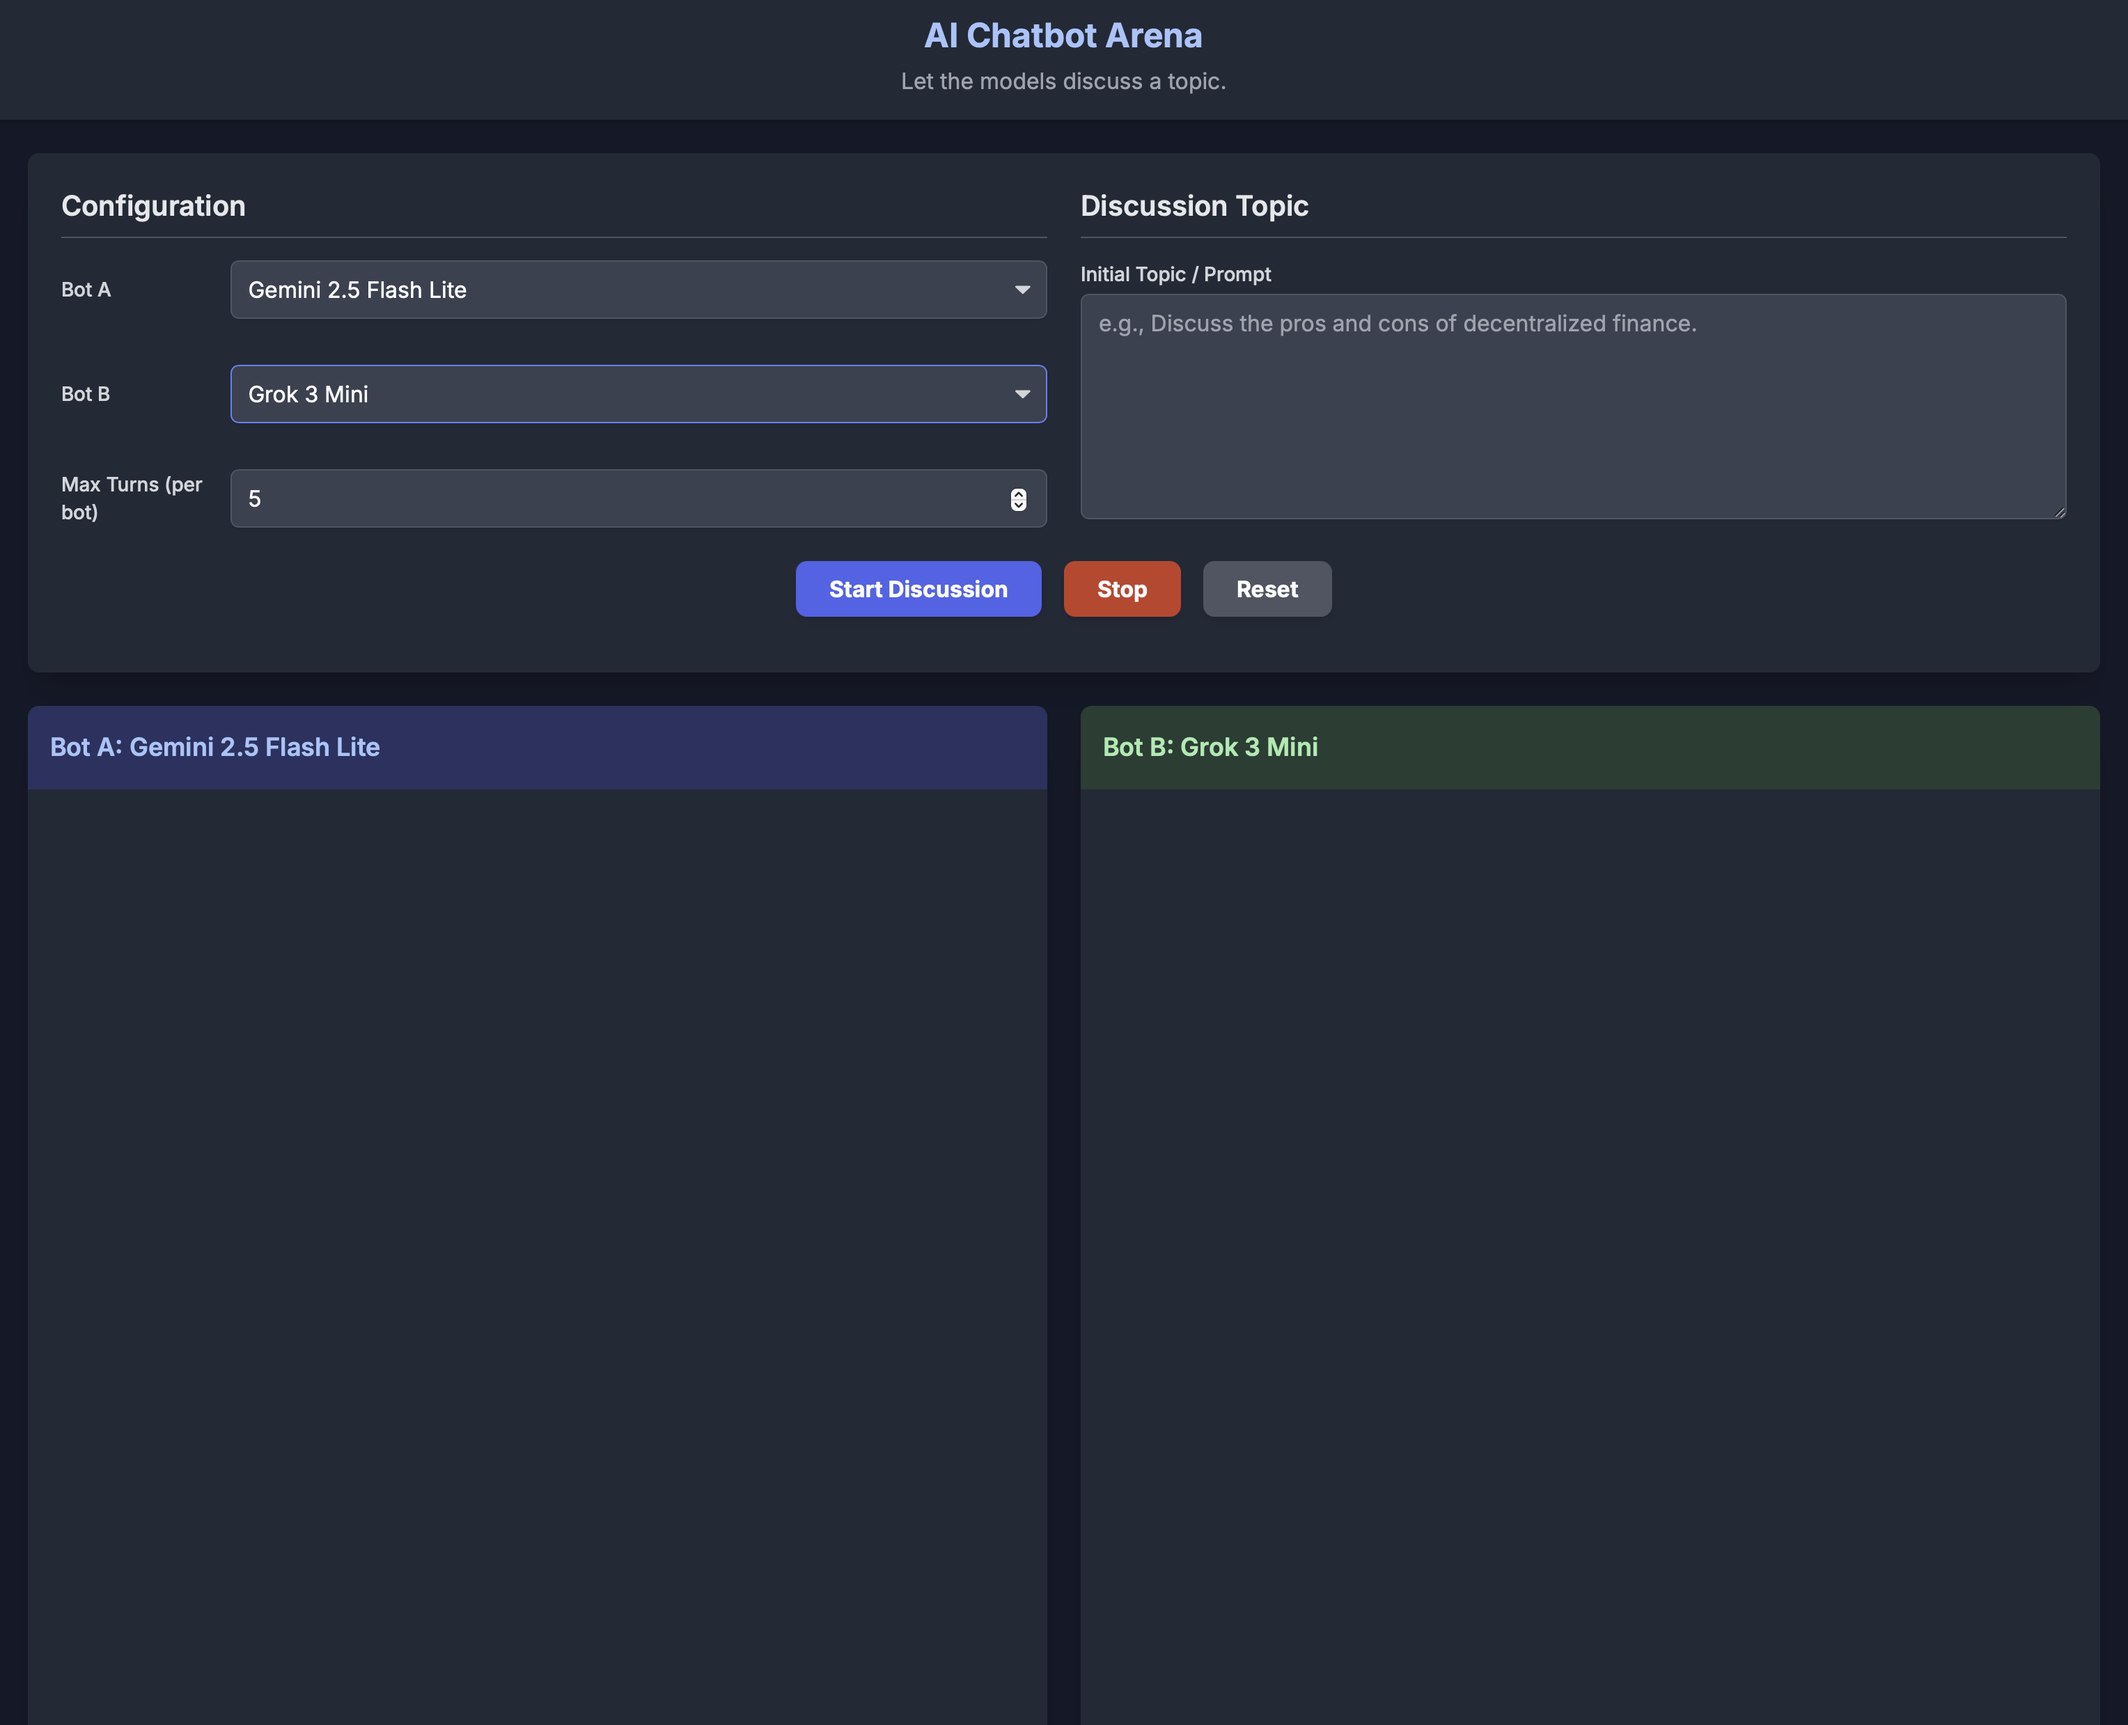
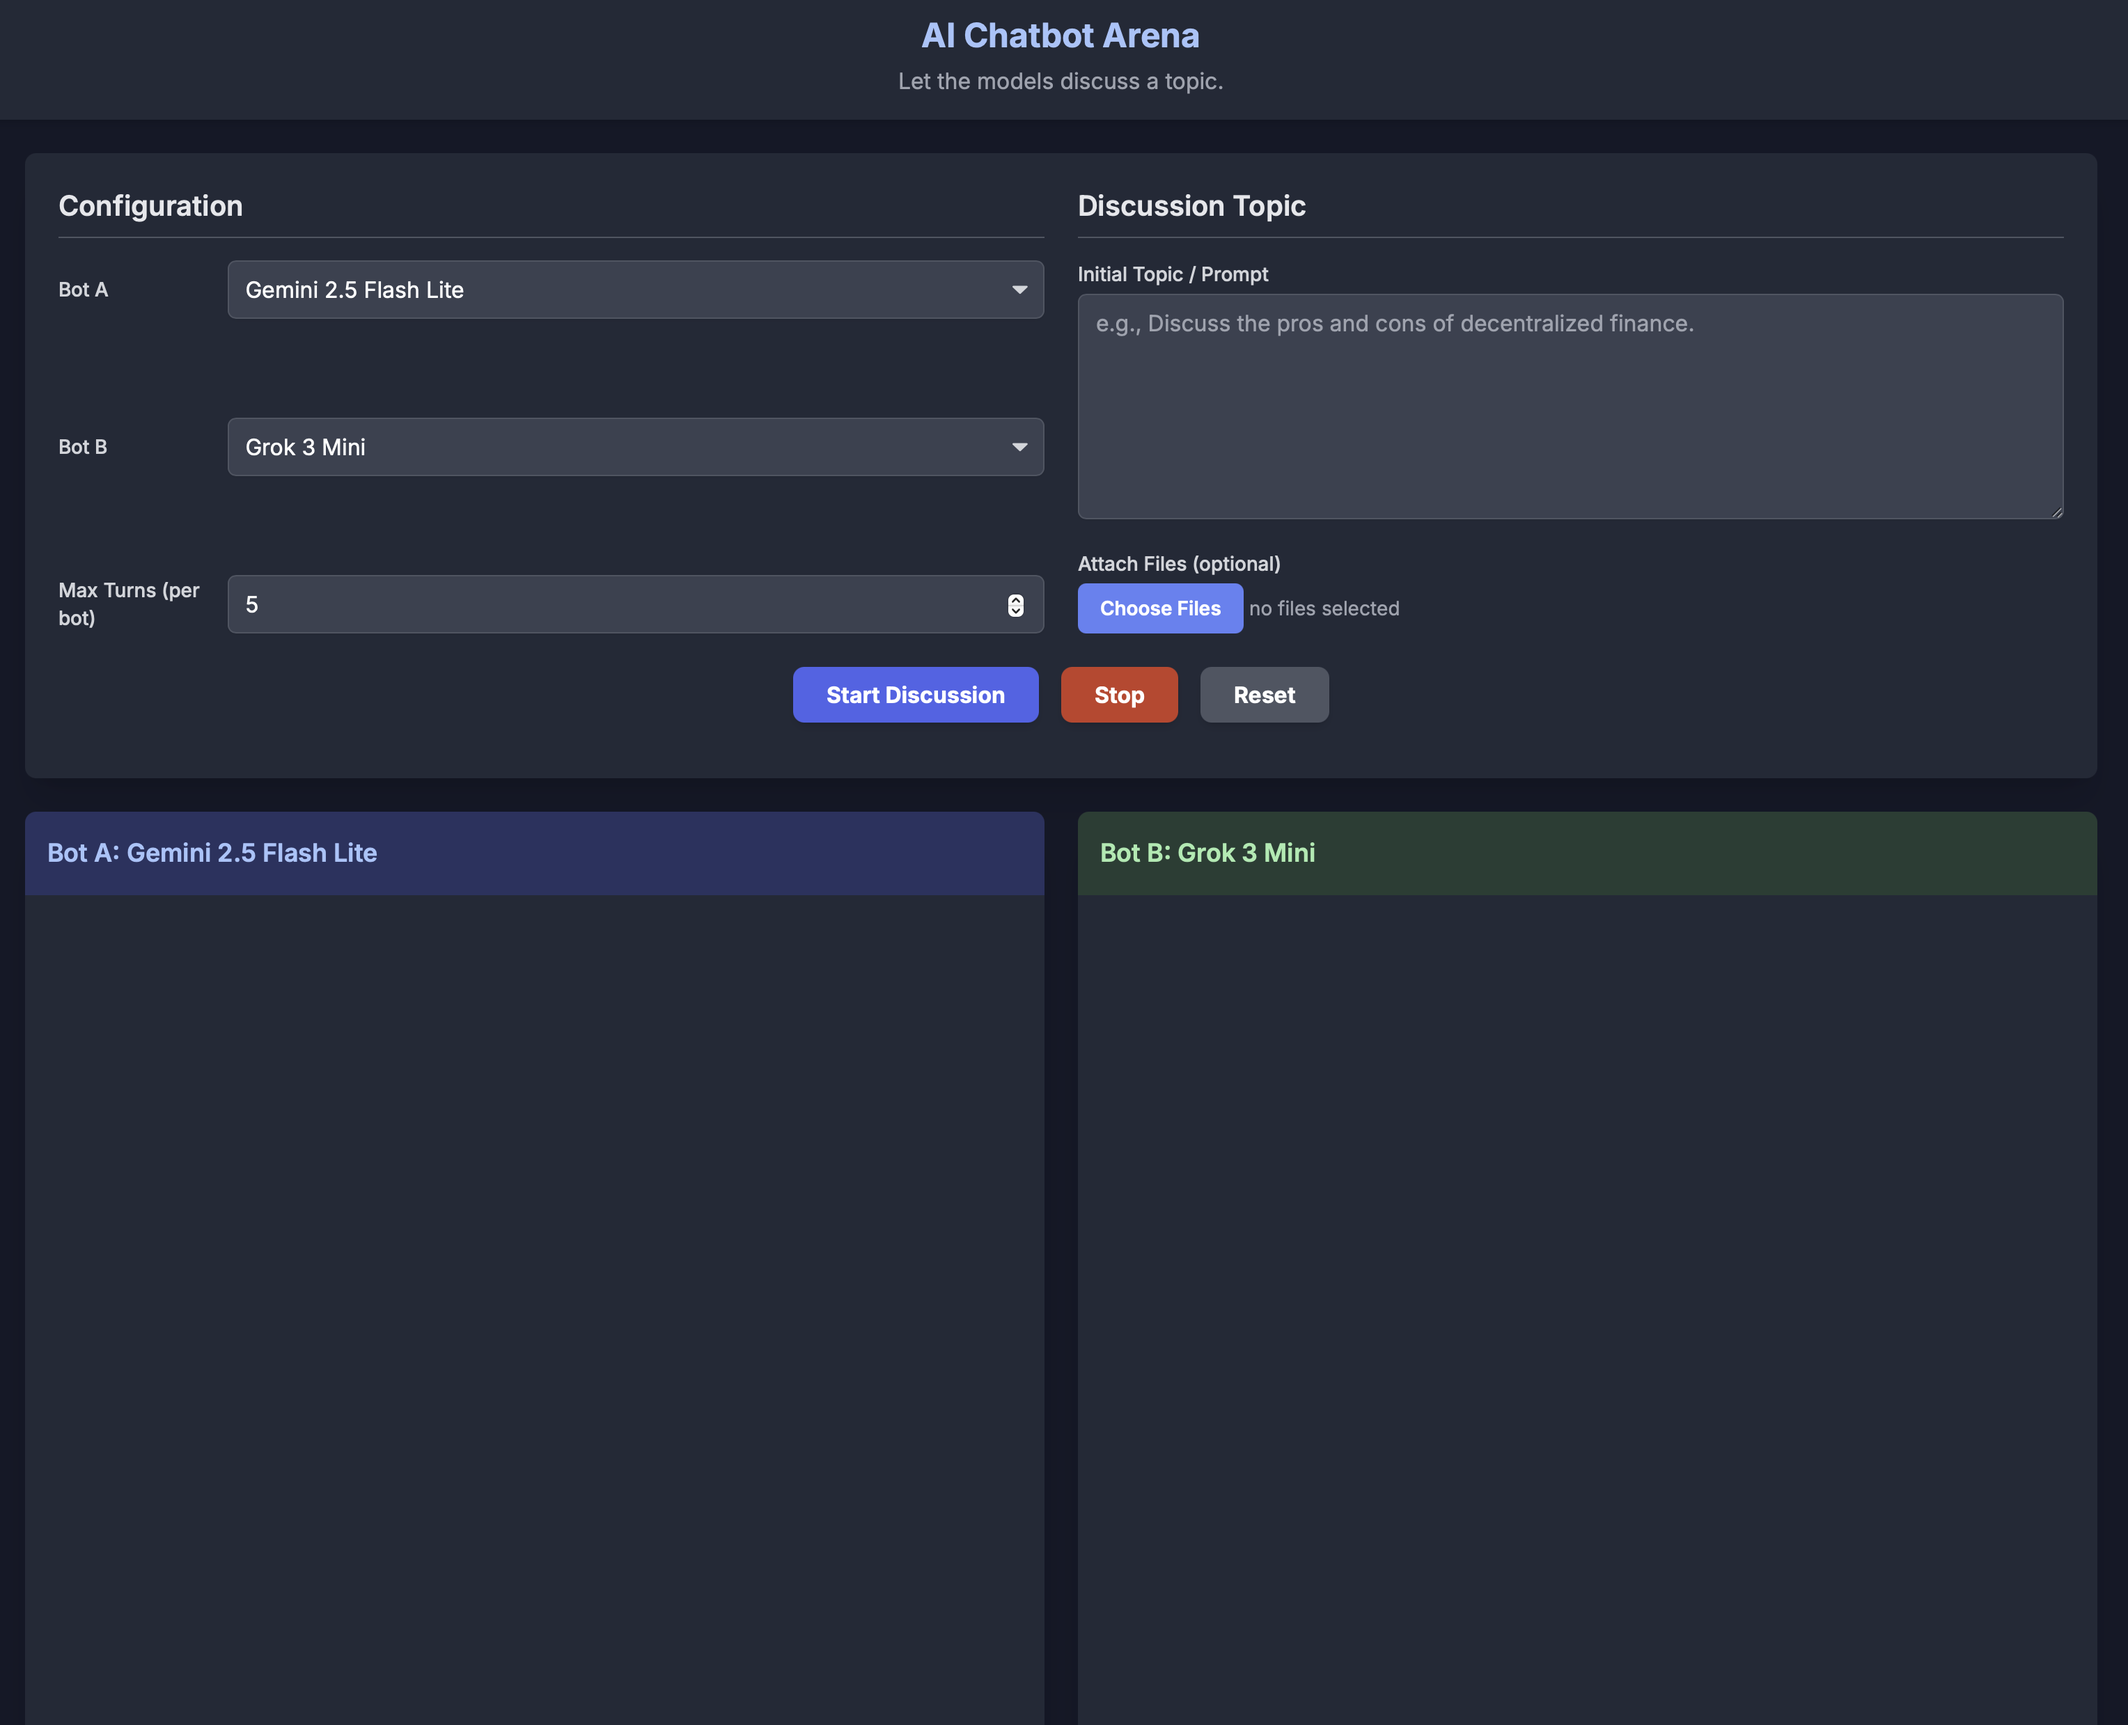
Added file attachments to the initial prompt. Docs and screenshot updated for same.

diff --git a/index.html b/index.html
@@ -103,6 +103,10 @@
                         <label for="initial-prompt" class="block text-sm font-medium text-gray-300 mb-1">Initial Topic / Prompt</label>
                         <textarea id="initial-prompt" rows="6" class="w-full bg-gray-700 border border-gray-600 rounded-md shadow-sm py-2 px-3 text-white focus:outline-none focus:ring-blue-500 focus:border-blue-500" placeholder="e.g., Discuss the pros and cons of decentralized finance."></textarea>
                     </div>
+                    <div class="mt-4">
+                        <label for="file-input" class="block text-sm font-medium text-gray-300 mb-1">Attach Files (optional)</label>
+                        <input type="file" id="file-input" multiple class="block w-full text-sm text-gray-400 file:mr-4 file:py-2 file:px-4 file:rounded-md file:border-0 file:text-sm file:font-semibold file:bg-blue-500 file:text-white hover:file:bg-blue-600"/>
+                    </div>
                 </div>
             </div>
             <!-- Action Buttons -->
@@ -166,6 +170,7 @@
             const botBLoader = document.getElementById('bot-b-loader');
             
             const initialPromptInput = document.getElementById('initial-prompt');
+            const fileInput = document.getElementById('file-input');
             const maxTurnsInput = document.getElementById('max-turns');
             const startBtn = document.getElementById('start-btn');
             const stopBtn = document.getElementById('stop-btn');
@@ -318,6 +323,7 @@
                 botASelect.disabled = running;
                 botBSelect.disabled = running;
                 initialPromptInput.disabled = running;
+                fileInput.disabled = running;
                 maxTurnsInput.disabled = running;
             }
 
@@ -329,12 +335,23 @@
 
                 const botAId = botASelect.value;
                 const botBId = botBSelect.value;
-                const initialPrompt = initialPromptInput.value.trim();
+                let initialPrompt = initialPromptInput.value.trim();
                 const maxTurns = parseInt(maxTurnsInput.value, 10);
+                const files = fileInput.files;
 
                 if (botAId === botBId) {
                     displayError('Please select two different bots for the discussion.');
                     return;
+                }
+
+                // Read file contents and prepend to the prompt
+                if (files.length > 0) {
+                    let fileContents = "";
+                    for (const file of files) {
+                        fileContents += await file.text();
+                        fileContents += "\n\n";
+                    }
+                    initialPrompt = `Attached File(s) Content:\n\n${fileContents}--- End of File(s) Content ---\n\nInitial Prompt:\n\n${initialPrompt}`;
                 }
 
                 const botAConfig = { ...BOT_CONFIG[botAId], apiKey: API_KEYS[BOT_CONFIG[botAId].keyName] };

diff --git a/README.md b/README.md
@@ -9,6 +9,7 @@ It's designed to be incredibly easy to set up and run locally on your computer, 
 ## ✨ Features
 
 - **Side-by-Side Discussion:** Watch two AI models discuss a topic in real-time, each in their own chat pane.
+- **Attach Files:** Include the content of one or more text files directly in the initial prompt.
 - **Multiple Provider Support:** Includes built-in support for models from Google (Gemini), OpenAI (ChatGPT), Anthropic (Claude), and xAI (Grok).
 - **Easy Configuration:** All user settings (API keys, bot selection) are handled in a single, separate `config.js` file. No need to edit the main application code!
 - **Simple & Local:** Runs entirely in your web browser. Just open the `index.html` file.
@@ -68,7 +69,8 @@ That's it! Simply **double-click the `index.html` file** to open it in your favo
 2.  **Select Bot B:** Choose the second debater from the "Bot B" dropdown.
 3.  **Set Max Turns:** Decide how many times each bot should respond.
 4.  **Write a Prompt:** Enter the topic or initial question for the discussion in the "Discussion Topic" box.
-5.  **Click "Start Discussion"** and watch the conversation unfold!
+5.  **(Optional) Attach Files:** Click the "Choose Files" button to select one or more text files. Their content will be added to the start of the prompt.
+6.  **Click "Start Discussion"** and watch the conversation unfold!
 
 You can use the **Stop** button to end the discussion early or the **Reset** button to clear everything and start over.
 
